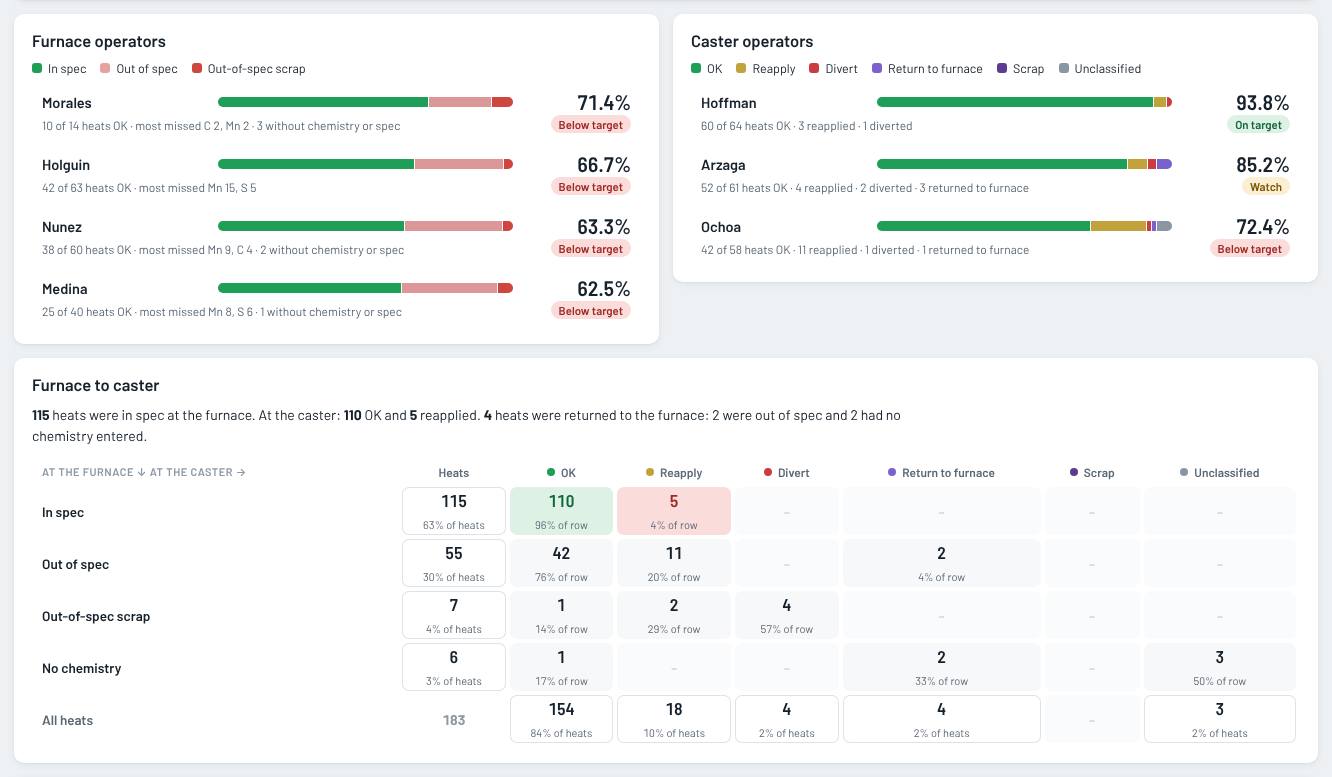
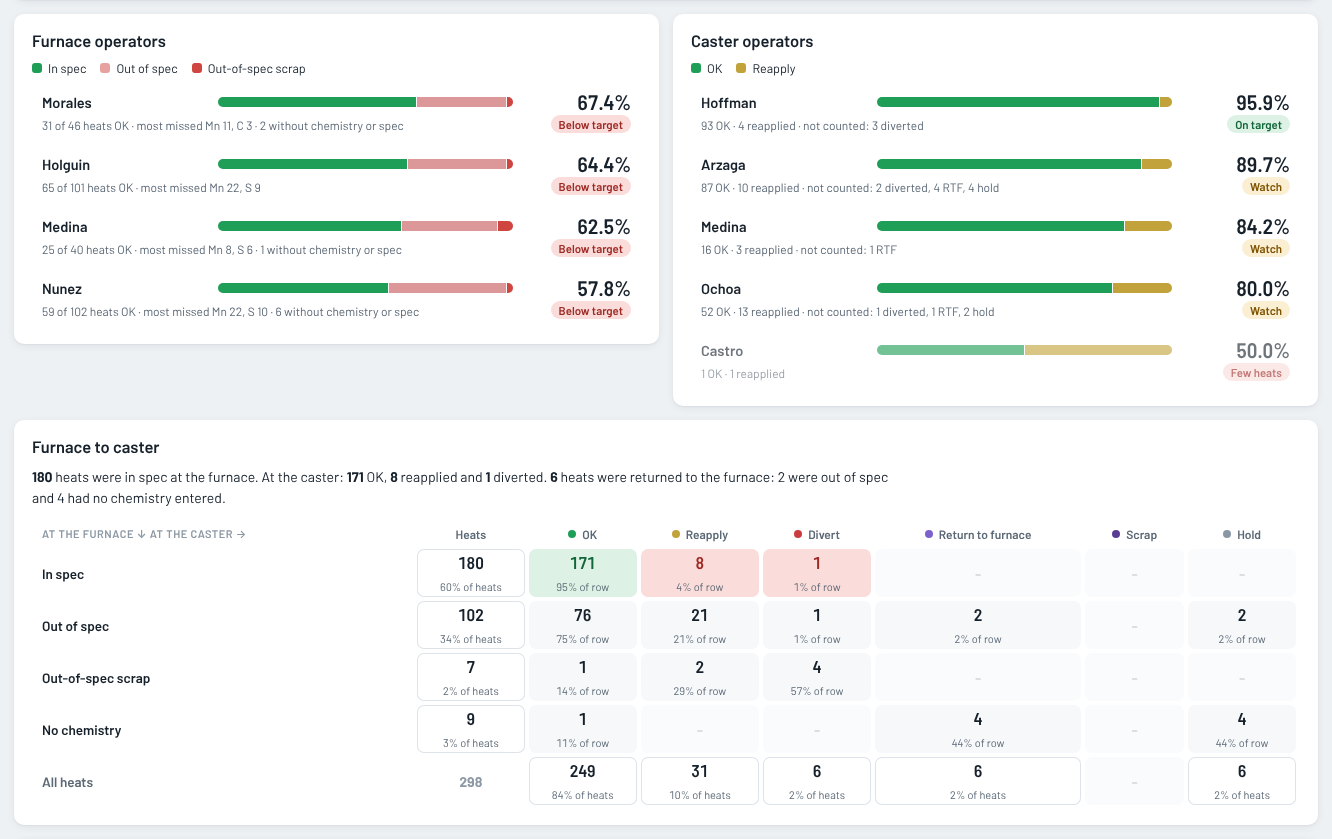
Caster Station: Ladle's Life preview, money lost, performance by day; caster % = OK of OK + reapplied
- Latest heats is replaced by Ladle's Life tiles with large life numbers and status colors
  (refreshed every minute), a running money-lost chart is added, and Month by month is replaced
  by caster performance by day against the 90% target.
- Caster operators (here and on the Operators page) and OK at the caster count only OK and
  reapplied heats; diverts, RTF, scrap and holds are listed as not counted.
- Operator lists tighten to fit the card when there are more operators.

Claude-Session: https://claude.ai/code/session_01CDN4J3RVh4maKsFv7NYeHq

diff --git a/index.html b/index.html
@@ -408,7 +408,7 @@ a.btn { text-decoration: none; }
 .st-card h2 { display: flex; align-items: baseline; justify-content: space-between; gap: 1em; font-size: 1.12em; font-weight: 600; margin: 0 0 .4em; min-width: 0; }
 .st-card h2 > span { white-space: nowrap; }
 .st-card h2 small { font-size: .8em; font-weight: 500; color: var(--muted); white-space: nowrap; overflow: hidden; text-overflow: ellipsis; font-variant-numeric: tabular-nums; }
-.st .c7 { grid-column: span 7; } .st .c6 { grid-column: span 6; } .st .c5 { grid-column: span 5; } .st .c3 { grid-column: span 3; }
+.st .c7 { grid-column: span 7; } .st .c6 { grid-column: span 6; } .st .c5 { grid-column: span 5; } .st .c4 { grid-column: span 4; } .st .c3 { grid-column: span 3; }
 .st-legend { display: flex; flex-wrap: wrap; gap: .15em 1em; font-size: .84em; color: var(--muted); margin: 0 0 .45em; }
 .st-legend:empty { display: none; }
 .st-legend .lg { display: inline-flex; align-items: center; gap: .4em; color: var(--ink); white-space: nowrap; }
@@ -435,6 +435,11 @@ a.btn { text-decoration: none; }
 .st-rank .res b { font-family: var(--font-num); font-size: 1.75em; font-weight: 600; line-height: 1; font-variant-numeric: tabular-nums; }
 .st-rank .pill, .st-tbl .pill { font-size: .84em; padding: .12em .6em; }
 .st-rank .few { opacity: .62; }
+.st-rank.tight li { padding: .3em .15em; gap: .1em 1em; }
+.st-rank.tight .res b { font-size: 1.45em; }
+.st-rank.tight .pill { display: none; }
+.st-rank.tighter .meta { display: none; }
+.st-rank.tighter li { grid-template-rows: auto; }
 .st-rank .chart-empty { padding: 2em 0; }
 .st-tbl-wrap { flex: 1 1 0; min-height: 0; overflow: hidden; }
 .st-tbl { width: 100%; border-collapse: collapse; font-size: .95em; font-variant-numeric: tabular-nums; }
@@ -467,6 +472,22 @@ a.btn { text-decoration: none; }
 .st-notes li { white-space: nowrap; overflow: hidden; text-overflow: ellipsis; color: var(--muted); }
 .st-notes b { color: var(--ink); font-weight: 600; margin-right: .5em; }
 .st-tbl th.num, .st-tbl td.num { text-align: right; }
+.st-lads { flex: 1 1 0; min-height: 0; display: grid; grid-template-columns: repeat(4, minmax(0, 1fr)); grid-template-rows: repeat(2, minmax(0, 1fr)); gap: .55em; }
+.st-lad { display: flex; flex-direction: column; min-width: 0; min-height: 0; border-radius: .55em; overflow: hidden; border-top: .3em solid var(--lc); background: color-mix(in srgb, var(--lc) 8%, var(--panel-2)); }
+.st-lad .top { display: flex; justify-content: space-between; align-items: baseline; gap: .4em; padding: .4em .6em 0; }
+.st-lad .top b { font-family: var(--font-num); font-size: 1.15em; font-weight: 700; white-space: nowrap; }
+.st-lad .top span { font-size: .82em; color: var(--muted); white-space: nowrap; overflow: hidden; text-overflow: ellipsis; font-variant-numeric: tabular-nums; }
+.st-lad .big { flex: 1 1 0; min-height: 0; display: flex; align-items: center; justify-content: center; font-family: var(--font-num); font-weight: 700; font-size: 4.4em; line-height: 1; font-variant-numeric: tabular-nums; }
+.st-lad .big.near { color: var(--warn-ink); }
+.st-lad .big.over { color: var(--bad-ink); }
+.st-lad .lbar { position: relative; height: .6em; margin: 0 .6em .5em; border-radius: .3em; background: var(--line-2); }
+.st-lad .lbar i { position: absolute; left: 0; top: 0; bottom: 0; border-radius: .3em; }
+.st-lad .lbar u { position: absolute; top: -.15em; bottom: -.15em; width: 2px; background: var(--faint); opacity: .7; }
+.st-lad .stt { padding: .3em .4em; font-size: 1.02em; font-weight: 700; color: #FFFFFF; background: var(--lc); text-align: center; white-space: nowrap; overflow: hidden; text-overflow: ellipsis; }
+.st-big { display: flex; flex-wrap: wrap; align-items: baseline; gap: .1em .6em; margin: -.1em 0 .35em; }
+.st-big b { font-family: var(--font-num); font-size: 2.1em; font-weight: 600; line-height: 1.05; font-variant-numeric: tabular-nums; }
+.st-big span { font-size: .88em; color: var(--muted); font-variant-numeric: tabular-nums; }
+.st-chart .zero { stroke: var(--faint); stroke-width: 1; }
 .st-legend .sw.tgt { height: 0; width: 1.3em; border-radius: 0; border-top: 2px dashed var(--ink); opacity: .55; }
 .st-chart .target { stroke: var(--ink); stroke-width: 1.5; stroke-dasharray: 5 4; opacity: .55; }
 .st-chart .tl.cur { fill: var(--ink); font-weight: 600; }
@@ -478,6 +499,8 @@ a.btn { text-decoration: none; }
   html:not(.vk-tv) .st-kpis { grid-template-columns: repeat(3, minmax(0, 1fr)); }
 }
 @media (max-width: 620px) {
+  html:not(.vk-tv) .st-lad .big { font-size: 2.4em; }
+  html:not(.vk-tv) .st-lad .top span { display: none; }
   html:not(.vk-tv) .st-kpis { grid-template-columns: repeat(2, minmax(0, 1fr)); }
   html:not(.vk-tv) .st > .st-card.fx { height: 320px; }
   html:not(.vk-tv) .st-tbl th:nth-child(4), html:not(.vk-tv) .st-tbl td:nth-child(4) { display: none; }
@@ -1032,25 +1055,25 @@ html.vk-tv #ladles .ladle-edit { display: none; }
         <button class="btn st-fs" type="button" data-tv aria-pressed="false"><svg width="15" height="15" viewBox="0 0 16 16" aria-hidden="true"><path d="M2.5 6V2.5H6M10 2.5h3.5V6M13.5 10v3.5H10M6 13.5H2.5V10" fill="none" stroke="currentColor" stroke-width="1.6" stroke-linecap="round" stroke-linejoin="round"></path></svg><span>Full screen</span></button>
       </div>
       <div class="st-kpis" data-st="kpis"></div>
-      <div class="st-card c7 fx">
+      <div class="st-card c5 fx">
         <h2><span data-st="days-title">Billet tons by day</span><small data-st="days-note"></small></h2>
         <div class="st-legend" data-st="days-legend"></div>
         <div class="st-chart" data-st="days"></div>
         <ul class="st-notes" data-st="notes"></ul>
       </div>
-      <div class="st-card c5">
+      <div class="st-card c3 fx">
+        <h2><span>Money lost</span><small data-st="loss-note"></small></h2>
+        <div class="st-big" data-st="loss-big"></div>
+        <div class="st-chart" data-st="loss"></div>
+      </div>
+      <div class="st-card c4">
         <h2><span>Caster operators</span><small data-st="ops-note"></small></h2>
         <div class="st-legend" data-st="ops-legend"></div>
         <ol class="st-rank" data-st="ops"></ol>
       </div>
-      <div class="st-card c6 fx">
-        <h2><span>Latest heats</span><small data-st="heats-note"></small></h2>
-        <div class="st-tbl-wrap">
-          <table class="st-tbl" data-st="heats">
-            <thead><tr><th>Date</th><th>Heat</th><th>Caster</th><th>Grade</th><th>Size</th><th>Disposition</th></tr></thead>
-            <tbody></tbody>
-          </table>
-        </div>
+      <div class="st-card c5 fx">
+        <h2><span>Ladle's Life</span><small data-st="ladles-note"></small></h2>
+        <div class="st-lads" data-st="ladles"></div>
       </div>
       <div class="st-card c3">
         <h2><span>Dispositions</span><small data-st="els-note"></small></h2>
@@ -1058,10 +1081,10 @@ html.vk-tv #ladles .ladle-edit { display: none; }
         <h3 class="st-sub"><span>Sizes</span><small>Heats · share</small></h3>
         <div class="st-bars wide fill" data-st="els2"></div>
       </div>
-      <div class="st-card c3 fx">
-        <h2><span>Month by month</span></h2>
-        <div class="st-legend" data-st="months-legend"></div>
-        <div class="st-chart" data-st="months"></div>
+      <div class="st-card c4 fx">
+        <h2><span data-st="perf-title">Caster performance by day</span></h2>
+        <div class="st-legend" data-st="perf-legend"></div>
+        <div class="st-chart" data-st="perf"></div>
       </div>
     </section>
 
@@ -1130,6 +1153,7 @@ html.vk-tv #ladles .ladle-edit { display: none; }
             <li><b>Readings: rounded to spec</b>: a reading is rounded to the decimals the limit is written in before comparing, the way ASTM E29 rounding works (0.7416 against .74 counts as in spec). Exact compares the full reading.</li>
             <li><b>Hit spec</b>: a heat with chemistry results where every checked element is inside its limits. Heats with no chemistry entered are left out.</li>
             <li><b>Melter criteria</b> (Operators page default): from "Instructions for chemistry disposition" and the Vinton Grades Spec criteria, judged against the SPEC rows of the Vinton Grades Spec criteria sheet (40/A615 and 60/A615, #4 to #11, shown below). Grades and sizes not on that sheet, such as 60(A706/A615) DUAL and 80/A615, use the SPEC row on their daily sheet. <b>C, Mn, Si and V</b> must be inside the OK range, from 90% of the low spec up to the max spec; outside it is <i>out of spec</i>. <b>P and S</b> over the max are <i>out of spec</i>. <b>Ni, Mo and Cu</b> over the max are <i>out-of-spec scrap</i>. <b>Cr</b> under 90% of the low spec is <i>out of spec</i>; over the max is <i>out-of-spec scrap</i>. Other elements are not part of the melter criteria. <b>Melter OK %</b> = heats with no element outside the criteria ÷ heats checked; the target is 90%. The instructions call for the FL1 sample, but the monthly report only has the final chemistry (the average of the final samples), so the criteria are applied to that.</li>
+            <li><b>Caster operators</b> and <b>caster performance</b>: OK ÷ (OK + reapplied). Diverts, returns to the furnace, scrap and holds are left out, since they come from the chemistry rather than the caster.</li>
             <li><b>Furnace to caster</b>: on the Operators page, <i>at the furnace</i> is the heat's chemistry result (in spec, out of spec, out-of-spec scrap, no spec to check against, or no chemistry recorded) and <i>at the caster</i> is its disposition category. <b>In spec, not OK at caster</b> counts heats whose chemistry was in spec but that were reapplied, diverted, returned to the furnace or scrapped.</li>
             <li><b>Ladle's Life</b>: each ladle's current lining life against its safety life (75 unless changed on the page) and its service status: In Use, On Preheater, Relining or Out of Service. The gauge is green below the yellow limit (50), yellow from 50 and red from 60; the thin band outside the gauge marks those zones. The ladles are kept in ladles.json in the dashboard's GitHub repository. Anyone can view them; a person with the editing password (or the GitHub edit key) unlocks editing once on their computer, and each save is recorded in the change log with their name and the time. On the Claude link the tab opens the public site, so there is only one set of ladles. A copy opened without internet shows the ladles as they were when it was saved.</li>
             <li><b>Planned tons to date</b>: planned daily tons through the latest day that has actual tons. <b>Estimated production loss</b>: tons short of plan × the billet price per ton picked on the page (the price is not in the Excel reports).</li>
@@ -2331,12 +2355,13 @@ html.vk-tv #ladles .ladle-edit { display: none; }
     { key: 'scrap', label: 'Out-of-spec scrap', color: 'var(--bad)' },
     { key: 'none', label: 'No chemistry or spec', color: 'var(--faint)', soft: true },
   ];
+  const CASTER_OKRE = ['OK', 'Reapply'];
   const C_COLOR = { OK: 'var(--ok)', Reapply: 'var(--reapply)', Divert: 'var(--divert)', RTF: 'var(--rtf)', Scrap: 'var(--scrap)', Hold: 'var(--uncl)' };
   function opLegend(box, role) {
     box.replaceChildren();
     const add = (label, color, soft) => { const s = document.createElement('span'); s.className = 'lg'; const w = document.createElement('i'); w.className = 'sw'; w.style.background = color; if (soft) w.style.opacity = '.5'; s.append(w, label); box.appendChild(s); };
     if (role === 'F') F_SEG.filter((f) => f.key !== 'none').forEach((f) => add(f.label, f.color, f.soft));
-    else CASTER_CATS.forEach((c) => add(CASTER_LABEL[c], C_COLOR[c]));
+    else CASTER_OKRE.forEach((c) => add(CASTER_LABEL[c], C_COLOR[c]));
   }
   function flowStat(Name, hs, oset, spec = state.opsSpec) {
     const r = { Name, Heats: hs.length, in: 0, miss: 0, scrap: 0, none: 0, OK: 0, Reapply: 0, Divert: 0, RTF: 0, Scrap: 0, Hold: 0, Slipped: 0 };
@@ -2376,10 +2401,14 @@ html.vk-tv #ladles .ladle-edit { display: none; }
       return { pct, n: s.Checked, parts: F_SEG.filter((f) => f.key !== 'none').map((f) => ({ ...f, n: s[f.key] })), meta,
         aria: `${s.Name}: ${pct == null ? 'no heats checked' : fP1(pct) + (melter ? ' OK under the melter criteria' : ' in spec')}, ${s.in} of ${s.Checked} heats. ${s.miss} out of spec, ${s.scrap} out-of-spec scrap.` };
     }
-    const notes = ['Reapply', 'Divert', 'RTF', 'Scrap'].filter((c) => s[c]).map((c) => `${fInt(s[c])} ${CASTER_VERB[c].replace('returned to the furnace', 'returned to furnace')}`);
-    return { pct: s.OKPct, n: s.Heats, parts: CASTER_CATS.map((c) => ({ label: CASTER_LABEL[c], color: C_COLOR[c], n: s[c] })),
-      meta: `${fInt(s.OK)} of ${fInt(s.Heats)} heats OK` + (notes.length ? ' · ' + notes.join(' · ') : ''),
-      aria: `${s.Name}: ${fP1(s.OKPct || 0)} OK at the caster, ${s.OK} of ${s.Heats} heats. ${CASTER_CATS.map((c) => `${s[c]} ${CASTER_LABEL[c]}`).join(', ')}.` };
+    // a caster operator is judged on OK against reapplied only; diverts, returns to the furnace, scrap and holds are left out
+    const counted = s.OK + s.Reapply;
+    const pct = counted ? s.OK / counted : null;
+    const LEFT_WORD = { Divert: 'diverted', RTF: 'RTF', Scrap: 'scrapped', Hold: 'hold' };
+    const left = ['Divert', 'RTF', 'Scrap', 'Hold'].filter((c) => s[c]).map((c) => `${fInt(s[c])} ${LEFT_WORD[c]}`);
+    return { pct, n: counted, parts: CASTER_OKRE.map((c) => ({ label: CASTER_LABEL[c], color: C_COLOR[c], n: s[c] })),
+      meta: `${fInt(s.OK)} OK · ${fInt(s.Reapply)} reapplied` + (left.length ? ' · not counted: ' + left.join(', ') : ''),
+      aria: `${s.Name}: ${pct == null ? 'no OK or reapplied heats' : fP1(pct) + ' OK'}, ${s.OK} OK and ${s.Reapply} reapplied.` + (left.length ? ` Not counted: ${left.join(', ')}.` : '') };
   }
   function opRanks(heats, field, oset, spec) {
     const role = field === 'Crew' ? 'F' : 'C';
@@ -2547,6 +2576,10 @@ html.vk-tv #ladles .ladle-edit { display: none; }
       li.setAttribute('aria-label', r.aria);
       ol.appendChild(li);
     }
+    // more operators than the card holds: tighten the rows, then drop the detail line, so every row (and the total) shows
+    ol.classList.remove('tight', 'tighter');
+    if (ol.clientHeight && ol.scrollHeight > ol.clientHeight + 1) ol.classList.add('tight');
+    if (ol.clientHeight && ol.scrollHeight > ol.clientHeight + 1) ol.classList.add('tighter');
   }
   // newest heats first; rows that don't fit the card are dropped, so no half rows
   function stTable(table, rows, cols) {
@@ -2606,27 +2639,81 @@ html.vk-tv #ladles .ladle-edit { display: none; }
     const yt = [0, 0.5, 1].filter((t) => t <= top);
     const fmtT = loc.format('.0%');
     const m = { l: (d3.max(yt, (t) => textWidth(svg, fmtT(t), 'tl')) || 10) + 0.9 * em, r: 2 };
-    const x = d3.scaleBand(rows.map((r) => r.Month), [m.l, W - m.r]).paddingInner(0.28).paddingOuter(0.1);
+    const K = (r) => r.key || r.Month;
+    const x = d3.scaleBand(rows.map(K), [m.l, W - m.r]).paddingInner(rows.length > 14 ? 0.2 : 0.28).paddingOuter(0.1);
     const x1 = d3.scaleBand(series.map((s) => s.key), [0, x.bandwidth()]).padding(series.length > 1 ? 0.08 : 0);
     svg.append('g').attr('class', 'grid').selectAll('line').data(yt).join('line').attr('x1', m.l).attr('x2', W - m.r).attr('y1', (d) => y(d)).attr('y2', (d) => y(d));
     svg.append('g').selectAll('text').data(yt).join('text').attr('class', 'tl').attr('x', m.l - 0.5 * em).attr('y', (d) => y(d)).attr('dy', '0.35em').attr('text-anchor', 'end').text(fmtT);
     const bars = rows.flatMap((r) => series.filter((s) => r[s.key] != null).map((s) => ({ r, s, v: r[s.key] })));
     const bw = x1.bandwidth();
     svg.append('g').selectAll('rect').data(bars).join('rect')
-      .attr('x', (b) => x(b.r.Month) + x1(b.s.key)).attr('width', bw).attr('y', (b) => y(b.v)).attr('height', (b) => y(0) - y(b.v))
+      .attr('x', (b) => x(K(b.r)) + x1(b.s.key)).attr('width', bw).attr('y', (b) => y(b.v)).attr('height', (b) => y(0) - y(b.v))
       .attr('rx', Math.min(3, bw / 4)).style('fill', (b) => b.s.color(b.v));
     svg.append('line').attr('class', 'target').attr('x1', m.l).attr('x2', W - m.r).attr('y1', y(0.9)).attr('y2', y(0.9));
     const wl = d3.max(bars, (b) => textWidth(svg, fP0(b.v), 'vl')) || 0;
     if (wl <= bw + x1.step() * x1.paddingInner() + 2) svg.append('g').selectAll('text').data(bars).join('text').attr('class', (b) => 'vl ' + (series.length > 1 ? '' : status(b.v)))
-      .attr('x', (b) => x(b.r.Month) + x1(b.s.key) + bw / 2).attr('y', (b) => y(b.v) - 0.45 * em).attr('text-anchor', 'middle').text((b) => fP0(b.v));
+      .attr('x', (b) => x(K(b.r)) + x1(b.s.key) + bw / 2).attr('y', (b) => y(b.v) - 0.45 * em).attr('text-anchor', 'middle').text((b) => fP0(b.v));
     const lab = (k) => MONTHS[+k.slice(5, 7) - 1].slice(0, 3);
-    svg.append('g').selectAll('text').data(rows).join('text').attr('class', (r) => 'tl' + (r.Month === cur ? ' cur' : ''))
+    if (rows[0] && rows[0].label) stXLabels(svg, x, rows.map((r) => ({ key: K(r), label: r.label })), H, em);
+    else svg.append('g').selectAll('text').data(rows).join('text').attr('class', (r) => 'tl' + (r.Month === cur ? ' cur' : ''))
       .attr('x', (r) => x(r.Month) + x.bandwidth() / 2).attr('y', H - 0.45 * em).attr('text-anchor', 'middle').text((r) => lab(r.Month));
     const hover = svg.append('g').selectAll('rect').data(rows).join('rect').attr('class', 'hover-band')
-      .attr('x', (r) => x(r.Month) - (x.step() - x.bandwidth()) / 2).attr('width', x.step()).attr('y', 0).attr('height', H - 1.9 * em);
+      .attr('x', (r) => x(K(r)) - (x.step() - x.bandwidth()) / 2).attr('width', x.step()).attr('y', 0).attr('height', H - 1.9 * em);
     hover.on('mousemove', (ev, r) => {
       hover.classed('on', (e) => e === r);
-      tip.show(ev, monthLong(r.Month), [...series.map((s) => [r[s.key] == null ? null : s.color(r[s.key]), s.label, r[s.key] == null ? '—' : fP1(r[s.key])]), ...(r.extra || [])]);
+      tip.show(ev, r.long || monthLong(r.Month), [...series.map((s) => [r[s.key] == null ? null : s.color(r[s.key]), s.label, r[s.key] == null ? '—' : fP1(r[s.key])]), ...(r.extra || [])]);
+    }).on('mouseleave', () => { hover.classed('on', false); tip.hide(); });
+  }
+  const moneyShort = (v) => (v >= 1e6 ? '$' + (v / 1e6).toFixed(2) + 'M' : v >= 1e3 ? '$' + fInt(Math.round(v / 1e3)) + 'K' : '$' + fInt(Math.round(v)));
+  // Ladle's Life at a glance: big life numbers, a bar against the safety life, the status color
+  function stLadleTiles(sec) {
+    const S = ladleSettings();
+    const items = ladleItems();
+    const box = stq(sec, 'ladles');
+    box.replaceChildren(...items.map((it) => {
+      const life = Math.max(0, Math.round(+it.Life || 0));
+      const t = mk('div', 'st-lad'); t.style.setProperty('--lc', LADLE_COLOR[it.Status] || 'var(--ladle-oos)');
+      const top = mk('div', 'top'); top.append(mk('b', '', 'Ladle ' + it.Ladle), mk('span', '', life > S.max ? `${fInt(life - S.max)} over` : `${fInt(S.max - life)} left`));
+      const bar = mk('div', 'lbar');
+      const fill = mk('i'); fill.style.width = Math.min(100, (life / S.max) * 100) + '%'; fill.style.background = lifeColor(life, S); bar.appendChild(fill);
+      for (const z of [S.warn, S.alarm]) if (z > 0 && z < S.max) { const u = mk('u'); u.style.left = (z / S.max) * 100 + '%'; bar.appendChild(u); }
+      t.append(top, mk('div', 'big' + (life >= S.alarm ? ' over' : life >= S.warn ? ' near' : ''), fInt(life)), bar, mk('div', 'stt', it.Status || 'No status'));
+      t.title = `Ladle ${it.Ladle}: life ${life} of ${S.max}, ${it.Status || 'no status'}` + (it.Refractory ? `, refractory ${it.Refractory}` : '');
+      return t;
+    }));
+    if (!items.length) box.appendChild(mk('div', 'chart-empty', 'No ladle data yet'));
+    const last = lad.live ? lad.fileAt || d3.max(items, (r) => r.UpdatedAt || '') : d3.max(items, (r) => r.UpdatedAt || '') || ladleSnap().asOf;
+    stq(sec, 'ladles-note').textContent = last ? (lad.live ? 'Live · ' : 'As of ') + whenShort(last) : '';
+  }
+  // money against plan, as a running total through the month (below zero = lost)
+  function stLossChart(box, pts) {
+    clear(box);
+    if (!pts.length) return emptyNote(box, 'No billet tons for this month yet');
+    const W = box.clientWidth, H = box.clientHeight;
+    if (W < 40 || H < 60) return;
+    const em = emOf(box);
+    const svg = d3.select(box).append('svg').attr('viewBox', `0 0 ${W} ${H}`);
+    const tip = makeTip(box);
+    const money = (v) => (v < 0 ? '−' : '') + moneyShort(Math.abs(v));
+    const y = d3.scaleLinear([Math.min(0, d3.min(pts, (d) => d.run)), Math.max(0, d3.max(pts, (d) => d.run))], [H - 1.9 * em, 1.6 * em]).nice();
+    if (y.domain()[0] === y.domain()[1]) y.domain([-1, 1]);
+    const yt = y.ticks(Math.max(2, Math.min(5, Math.floor(H / (3.4 * em)))));
+    const m = { l: (d3.max(yt, (t) => textWidth(svg, money(t), 'tl')) || 10) + 0.9 * em, r: 0.6 * em };
+    const x = d3.scalePoint(pts.map((d) => d.key), [m.l + 0.6 * em, W - m.r - 0.6 * em]);
+    svg.append('g').attr('class', 'grid').selectAll('line').data(yt).join('line').attr('x1', m.l).attr('x2', W - m.r).attr('y1', (d) => y(d)).attr('y2', (d) => y(d));
+    svg.append('g').selectAll('text').data(yt).join('text').attr('class', 'tl').attr('x', m.l - 0.5 * em).attr('y', (d) => y(d)).attr('dy', '0.35em').attr('text-anchor', 'end').text(money);
+    svg.append('line').attr('class', 'zero').attr('x1', m.l).attr('x2', W - m.r).attr('y1', y(0)).attr('y2', y(0));
+    const last = pts[pts.length - 1];
+    const col = last.run < 0 ? 'var(--bad)' : 'var(--good)';
+    svg.append('path').datum(pts).attr('d', d3.area().x((d) => x(d.key)).y0(y(0)).y1((d) => y(d.run))).style('fill', col).style('opacity', 0.14);
+    svg.append('path').datum(pts).attr('d', d3.line().x((d) => x(d.key)).y((d) => y(d.run))).style('fill', 'none').style('stroke', col).style('stroke-width', 2.5).style('stroke-linejoin', 'round');
+    svg.append('g').selectAll('circle').data(pts).join('circle').attr('cx', (d) => x(d.key)).attr('cy', (d) => y(d.run)).attr('r', Math.max(2.5, 0.25 * em)).style('fill', col).style('stroke', 'var(--panel)').style('stroke-width', 1.5);
+    stXLabels(svg, x, pts, H, em);   // a point scale: step() is the spacing, bandwidth() is 0
+    const hover = svg.append('g').selectAll('rect').data(pts).join('rect').attr('class', 'hover-band')
+      .attr('x', (d) => x(d.key) - x.step() / 2).attr('width', x.step()).attr('y', 0).attr('height', H - 1.9 * em);
+    hover.on('mousemove', (ev, d) => {
+      hover.classed('on', (e) => e === d);
+      tip.show(ev, d.long, [[null, 'Tons vs plan', signed(d.A - d.P, f0) + ' t'], [d.day < 0 ? 'var(--bad)' : 'var(--good)', 'That day', money(d.day)], [col, 'Running total', money(d.run)]]);
     }).on('mouseleave', () => { hover.classed('on', false); tip.hide(); });
   }
   const gradeShort = (g) => String(g || '—').replace(/\s*\(A706\/A615\)\s*DUAL/i, ' DUAL');
@@ -2787,7 +2874,8 @@ html.vk-tv #ladles .ladle-edit { display: none; }
     const all = DATA.heats.filter((h) => inMonth(h, m));
     const cc = Object.fromEntries(CASTER_CATS.map((k) => [k, 0]));
     for (const h of all) cc[casterCat(h)] += 1;
-    const okPct = all.length ? cc.OK / all.length : null;
+    const counted = cc.OK + cc.Reapply;
+    const okPct = counted ? cc.OK / counted : null;   // OK against reapplied; diverts, RTF, scrap and holds are not counted
     const row = BILLET_SUM.find((r) => r.Month === m) || {};
     const hasB = !!row.HasBillet;
     const bdays = DATA.billet_daily.filter((d) => inMonth(d, m)).sort((a, b) => cmp(a.Date, b.Date));
@@ -2811,28 +2899,41 @@ html.vk-tv #ladles .ladle-edit { display: none; }
         sub: lastB ? (lastB.PlannedDaily ? `${fP0(lastB.ActualDaily / lastB.PlannedDaily)} of the ${f0(lastB.PlannedDaily)} t plan` : 'No plan that day') : '' },
       toGo,
       { lbl: 'Heats', val: all.length ? fInt(all.length) : null, sub: dates.length ? `${fInt(dates.length)} days · ${f1(all.length / dates.length)} per day` : '' },
-      { lbl: 'OK at the caster', val: okPct == null ? null : fP1(okPct), st: status(okPct), sub: all.length ? `${fInt(cc.OK)} of ${fInt(all.length)} heats` : '' },
+      { lbl: 'OK at the caster', val: okPct == null ? null : fP1(okPct), st: status(okPct), sub: counted ? `${fInt(cc.OK)} OK · ${fInt(cc.Reapply)} reapplied` : '' },
     ]);
     stLegend(stq(sec, 'days-legend'), [['Plan', 'var(--plan)'], ['Actual, 90% of plan or more', 'var(--good)'], ['80–90%', 'var(--warn)'], ['Under 80%', 'var(--bad)']]);
-    stLegend(stq(sec, 'ops-legend'), CASTER_CATS.map((k) => [CASTER_LABEL[k], C_COLOR[k]]));
+    stLegend(stq(sec, 'ops-legend'), CASTER_OKRE.map((k) => [CASTER_LABEL[k], C_COLOR[k]]));
     stq(sec, 'days-title').textContent = single ? 'Billet tons by day' : 'Billet tons by month';
     stq(sec, 'days-note').textContent = single && hasB ? `Month plan ${f0(plan)} t` : '';
-    stq(sec, 'ops-note').textContent = all.length ? `${fInt(all.length)} heats` : '';
+    stq(sec, 'ops-note').textContent = counted ? `OK ÷ (OK + reapplied)` : '';
     const notes = bdays.filter((d) => String(d.Comments || '').trim()).slice(-2).reverse();
     stq(sec, 'notes').replaceChildren(...notes.map((d) => { const li = mk('li'); li.append(mk('b', '', fDate(d.Date)), String(d.Comments).trim()); li.title = String(d.Comments).trim(); return li; }));
-    const order = new Map(DATA.heats.map((h, i) => [h, i]));
-    const recent = all.slice().sort((a, b) => cmp(b.Date, a.Date) || order.get(b) - order.get(a)).slice(0, 80);
-    const shown = stTable(stq(sec, 'heats'), recent, [
-      { field: 'Date', fmt: fDate, cls: 'muted' }, { field: 'HeatNo', cls: 'strong' }, { field: 'CasterOp' }, { field: 'Grade', cls: 'muted' }, { field: 'Product', cls: 'muted' },
-      { cls: 'cut', render: (td, h) => { catCell(td, casterCat(h)); const d = dispDetail(h); if (d) td.appendChild(mk('span', 'dd', d)); td.title = String(h.Disposition || ''); } },
-    ]);
-    stq(sec, 'heats-note').textContent = all.length ? `Latest ${fInt(shown)} of ${fInt(all.length)}` : '';
-    const okBy = d3.rollup(DATA.heats, (v) => v.filter((h) => h.DispositionCategory === 'OK').length / v.length, (h) => h.Month);
-    const mRows = BILLET_SUM.filter((r) => r.Month !== 'All').slice().sort((a, b) => cmp(a.Month, b.Month))
-      .map((r) => ({ Month: r.Month, plan: r.HasBillet ? r.PctOfPlan : null, ok: okBy.has(r.Month) ? okBy.get(r.Month) : null,
-        extra: r.HasBillet ? [[null, 'Billet tons', f0(r.ActualTons)], [null, 'Planned to date', f0(r.PlannedToDate)]] : [] }));
-    stLegend(stq(sec, 'months-legend'), [['% of plan', 'var(--actual)'], ['OK at the caster', 'var(--ok)']]);
-    stTarget(stq(sec, 'months-legend'));
+    stLadleTiles(sec);
+    // money lost: tons short of plan × the billet price picked on the Billet page, as a running total
+    const price = state.price;
+    let run = 0;
+    const lossPts = (single
+      ? withTons.map((d) => ({ key: d.Date, A: d.ActualDaily, P: d.PlannedDaily || 0, long: d3.utcFormat('%a, %b %-d')(utc(d.Date)) }))
+      : BILLET_SUM.filter((r) => r.Month !== 'All' && r.HasBillet).sort((a, b) => cmp(a.Month, b.Month)).map((r) => ({ key: r.Month, A: r.ActualTons, P: r.PlannedToDate, long: monthLong(r.Month) })))
+      .map((d) => { const v = (d.A - d.P) * price; run += v; return { ...d, day: v, run }; });
+    lossPts.forEach((d) => { d.label = colLabel(d.key, single, lossPts.length); });
+    const net = hasB ? row.VarianceTons * price : null;
+    const big = stq(sec, 'loss-big'); big.replaceChildren();
+    if (net != null) {
+      big.append(mk('b', net < 0 ? 'c-bad' : 'c-good', net < 0 ? '−' + moneyShort(-net) : '$0'),
+        mk('span', '', net < 0 ? `${f0(-row.VarianceTons)} t short of plan` : `${f0(row.VarianceTons)} t ahead of plan`));
+    }
+    stq(sec, 'loss-note').textContent = `At $${fInt(price)}/t`;
+    // caster performance: OK against reapplied, by day
+    const pg = d3.groups(all, (h) => (single ? h.Date : h.Month)).sort((a, b) => cmp(a[0], b[0]));
+    const perfRows = pg.map(([key, hs]) => {
+      const ok = hs.filter((h) => h.DispositionCategory === 'OK').length, re = hs.filter((h) => h.DispositionCategory === 'Reapply').length;
+      return { key, label: colLabel(key, single, pg.length), long: single ? d3.utcFormat('%a, %b %-d')(utc(key)) : monthLong(key), pct: ok + re ? ok / (ok + re) : null,
+        extra: [[null, 'OK', fInt(ok)], [null, 'Reapplied', fInt(re)], [null, 'Not counted', fInt(hs.length - ok - re)]] };
+    }).filter((r) => r.pct != null);
+    stq(sec, 'perf-title').textContent = single ? 'Caster performance by day' : 'Caster performance by month';
+    stLegend(stq(sec, 'perf-legend'), [['90% OK or more', 'var(--good)'], ['80–90%', 'var(--warn)'], ['Under 80%', 'var(--bad)']]);
+    stTarget(stq(sec, 'perf-legend'));
     stBars(stq(sec, 'els'), CASTER_CATS.filter((k) => cc[k] || k !== 'Hold').map((k) => ({ label: CASTER_LABEL[k], dot: C_COLOR[k], n: cc[k], p: all.length ? cc[k] / all.length : null, parts: [{ n: cc[k], color: C_COLOR[k], label: CASTER_LABEL[k] }] })),
       all.length, 'No heats for this month');
     stq(sec, 'els-note').textContent = all.length ? `${fInt(all.length)} heats` : '';
@@ -2848,7 +2949,8 @@ html.vk-tv #ladles .ladle-edit { display: none; }
       : BILLET_SUM.filter((r) => r.Month !== 'All' && r.HasBillet).map((r) => ({ key: r.Month, P: r.PlannedToDate, A: r.ActualTons, note: '', long: monthLong(r.Month) }));
     pts.forEach((d) => { d.label = colLabel(d.key, single, pts.length); });
     stBilletDays(stq(sec, 'days'), pts);
-    stMonths(stq(sec, 'months'), mRows, m, [{ key: 'plan', label: '% of plan', color: () => 'var(--actual)' }, { key: 'ok', label: 'OK at the caster', color: () => 'var(--ok)' }]);
+    stLossChart(stq(sec, 'loss'), lossPts);
+    stMonths(stq(sec, 'perf'), perfRows, null, [{ key: 'pct', label: 'OK of OK + reapplied', color: (v) => `var(--${status(v)})` }]);
   }
 
   // ---------- Data & definitions ----------
@@ -2926,7 +3028,7 @@ html.vk-tv #ladles .ladle-edit { display: none; }
   const whenShort = (iso) => (!iso ? '' : iso.length <= 10 ? d3.utcFormat('%b %-d')(utc(iso)) : d3.timeFormat('%b %-d, %-I:%M %p')(new Date(iso)));
   const lifeColor = (life, S) => (life >= S.alarm ? 'var(--bad)' : life >= S.warn ? 'var(--gauge-warn)' : 'var(--good)');
   const ladleMsg = (t, err) => { const m = $('#ladle-msg'); m.textContent = t || ''; m.classList.toggle('err', !!err); };
-  const redrawLadles = () => { if (state.page === 'ladles') drawLadles(); };
+  const redrawLadles = () => { if (state.page === 'ladles') drawLadles(); else if (state.page === 'caster-station') drawCasterStation(); };
 
   // ----- reading -----
   function applyLadleFile(obj) {
@@ -2956,7 +3058,7 @@ html.vk-tv #ladles .ladle-edit { display: none; }
   function startLadleFile() {
     loadLadleFile().then((ok) => {
       if (!ok || ladlePoll) return;
-      ladlePoll = setInterval(() => { if (!document.hidden && state.page === 'ladles' && !lad.busy && !lad.drafts.size) loadLadleFile(); }, 60000);
+      ladlePoll = setInterval(() => { if (!document.hidden && (state.page === 'ladles' || state.page === 'caster-station') && !lad.busy && !lad.drafts.size) loadLadleFile(); }, 60000);
     });
   }
   function connectLadles() { /* the ladles live in the GitHub file only; the Claude database does not hold them */ }

diff --git a/README.md b/README.md
@@ -18,11 +18,11 @@ Chemistry dispositions, out-of-spec results, operator spec performance and bille
 | --- | --- |
 | **Chemistry Disposition** | How many heats were OK, reapplied, diverted, returned to the furnace or scrapped, by crew. |
 | **Out-of-Spec Chemistry** | Which elements missed spec, on which heats, and whether they ran above the maximum or below the minimum. |
-| **Operators** | Each melter's OK % under the furnace melter criteria. Each station's operators are judged on their own work: furnace operators by the chemistry at the furnace, caster operators by how their heats were dispositioned at the caster. Also how each pairing performed, and each heat's path from furnace to caster (for example, in spec at the furnace but returned to the furnace at the caster). |
+| **Operators** | Each melter's OK % under the furnace melter criteria. Each station's operators are judged on their own work: furnace operators by the chemistry at the furnace, caster operators by OK out of OK + reapplied at the caster (diverts, returns to the furnace, scrap and holds are left out). Also how each pairing performed, and each heat's path from furnace to caster (for example, in spec at the furnace but returned to the furnace at the caster). |
 | **Billet Production** | Daily billet tons against plan, the variance to plan and the estimated production loss. |
 | **Ladle's Life** | The lining life of the 8 ladles against their safety life, and each ladle's status: In Use (green), On Preheater (orange), Relining (purple) or Out of Service (gray). Anyone holding an edit key updates the numbers and statuses right on the page, and every change is logged. |
 | **Furnace Station** | A one-screen view for the TV at the furnace: heats, melter OK %, out of spec and out-of-spec scrap, melter OK % by day, the furnace operators, the latest heats with what was outside the criteria, the elements and grades, and melter OK % month by month. |
-| **Caster Station** | A one-screen view for the TV at the caster: billet tons against plan, the tons a day still needed to make the month, the last day, OK at the caster, billet tons by day with the latest shift comments, the caster operators, the latest heats and their dispositions, the sizes cast, and % of plan and OK at the caster month by month. |
+| **Caster Station** | A one-screen view for the TV at the caster: billet tons against plan, the tons a day still needed to make the month, the last day, OK at the caster, billet tons by day with the latest shift comments, money lost against plan as a running total, the caster operators, a Ladle's Life preview, the dispositions and sizes cast, and caster performance by day. |
 | **Data & definitions** | Which Excel file each month came from, the days it covers, and how every number is worked out. |
 
 Each page has a month picker and its own filters (crew, grade, disposition, spec source), and the detail tables can be searched and sorted.
